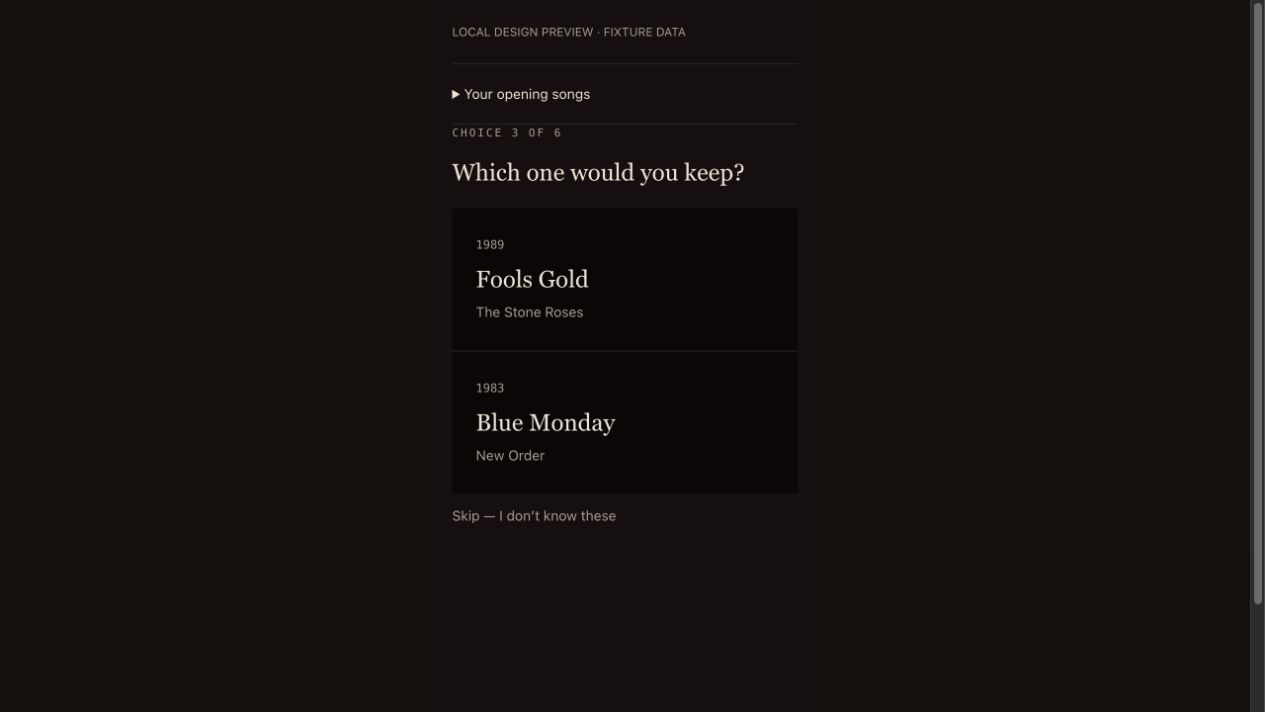
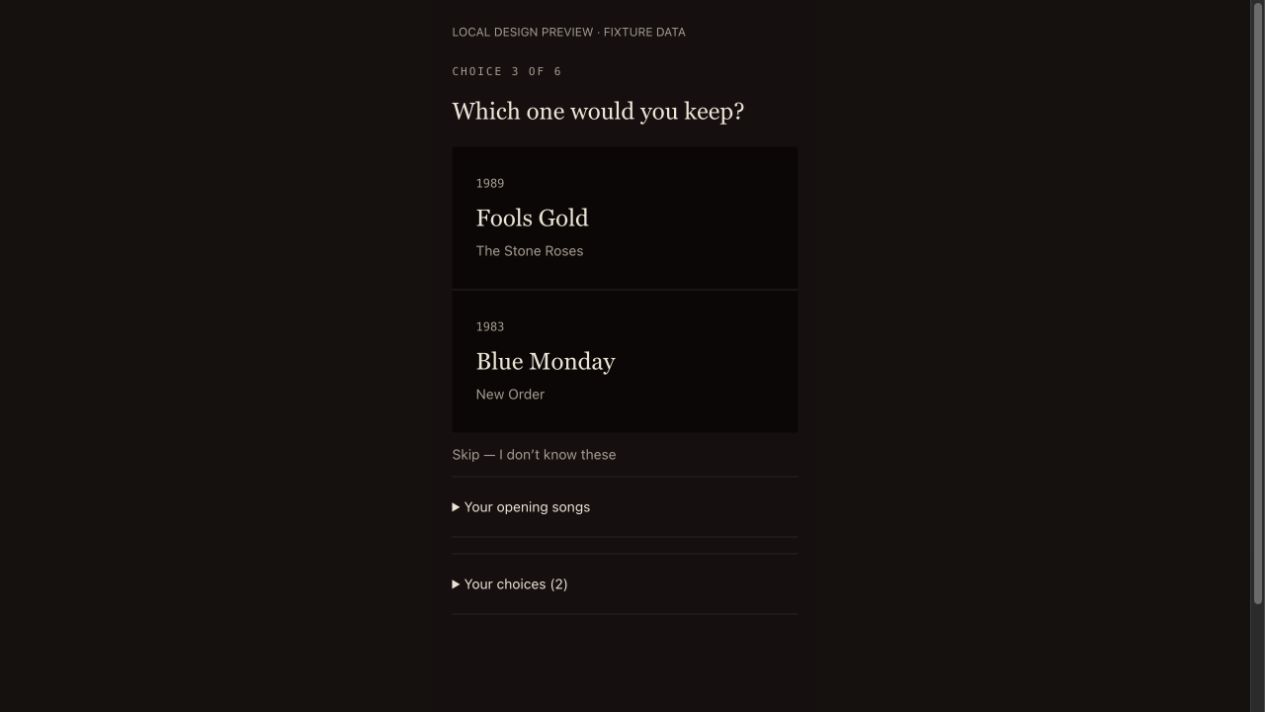
fix: keep feedback prompts out of the song-choice loop

diff --git a/src/routes/onboarding.tsx b/src/routes/onboarding.tsx
@@ -71,10 +71,8 @@ function Onboarding() {
     resultError,
     resultVersion,
     shareBusy,
-    round,
     maxRounds,
     nextPrompt,
-    reactedRounds,
     entries,
     synthesis,
     kept,
@@ -86,7 +84,6 @@ function Onboarding() {
     booting,
     submitSlot,
     pick,
-    reactToRead,
     shareRead,
     skip,
     loadFinalRead,
@@ -181,20 +178,22 @@ function Onboarding() {
           <p className="eyebrow">the interview</p>
         </header>
 
-        <OpeningContext
-          songs={songs}
-          reactions={reactions}
-          observation={refined && r5Step >= 2 ? refined.observation || refined.hypothesis : null}
-          compact={entries.length > 0 || phase === "done"}
-          starting={
-            !!refined &&
-            r5Step >= 2 &&
-            phase === "playing" &&
-            !pairing &&
-            !flowError &&
-            entries.length === 0
-          }
-        />
+        {entries.length === 0 && phase !== "done" && (
+          <OpeningContext
+            songs={songs}
+            reactions={reactions}
+            observation={refined && r5Step >= 2 ? refined.observation || refined.hypothesis : null}
+            compact={false}
+            starting={
+              !!refined &&
+              r5Step >= 2 &&
+              phase === "playing" &&
+              !pairing &&
+              !flowError &&
+              entries.length === 0
+            }
+          />
+        )}
 
         {/* Active slot input — slot2 or slot3 */}
         {(phase === "slot2" || phase === "slot3") && (
@@ -237,14 +236,6 @@ function Onboarding() {
             Continue now
           </button>
         )}
-
-        <InterviewHistory
-          entries={entries}
-          allowReactions={!!pairing}
-          reactedRounds={reactedRounds}
-          busy={busy || pendingSongId !== null || pendingSkip !== null}
-          onReact={(kind) => void reactToRead(kind)}
-        />
 
         {/* Current pairing */}
         {pairing && phase === "playing" && (
@@ -351,6 +342,20 @@ function Onboarding() {
                 </p>
               </ReadingResult>
             )}
+          </section>
+        )}
+        {(entries.length > 0 || phase === "done") && (
+          <section className="space-y-4" aria-label="Optional interview history">
+            {(songs.length > 0 || refined) && (
+              <OpeningContext
+                songs={songs}
+                reactions={reactions}
+                observation={refined?.observation || refined?.hypothesis}
+                compact={true}
+                starting={false}
+              />
+            )}
+            <InterviewHistory entries={entries} />
           </section>
         )}
       </main>

diff --git a/src/components/musicdna/interview-history.tsx b/src/components/musicdna/interview-history.tsx
@@ -44,60 +44,18 @@ export function InterviewExchange({
   );
 }
 
-export function InterviewHistory({
-  entries,
-  allowReactions,
-  reactedRounds,
-  busy,
-  onReact,
-}: {
-  entries: Entry[];
-  allowReactions: boolean;
-  reactedRounds: number[];
-  busy: boolean;
-  onReact: (kind: "thats_me" | "not_quite" | "harder") => void;
-}) {
-  const latest = entries.at(-1);
-  if (!latest) return null;
+export function InterviewHistory({ entries }: { entries: Entry[] }) {
+  if (!entries.length) return null;
   return (
-    <section className="space-y-7" aria-label="Your choices and the developing read">
-      {entries.length > 1 && (
-        <details className="border-y hairline py-2">
-          <summary className="min-h-11 cursor-pointer py-3 text-sm">
-            Earlier choices ({entries.length - 1})
-          </summary>
-          <div className="space-y-8 py-5">
-            {entries.slice(0, -1).map((entry) => (
-              <InterviewExchange key={entry.pairing.id} entry={entry} />
-            ))}
-          </div>
-        </details>
-      )}
-      <div aria-live="polite">
-        <InterviewExchange entry={latest}>
-          {allowReactions && latest.round >= 2 && !reactedRounds.includes(latest.round) && (
-            <div className="flex flex-wrap gap-2 pt-1">
-              {(
-                [
-                  ["thats_me", "That's me"],
-                  ["not_quite", "Not quite"],
-                  ["harder", "Give me a harder one"],
-                ] as const
-              ).map(([kind, label]) => (
-                <button
-                  key={kind}
-                  type="button"
-                  disabled={busy}
-                  onClick={() => onReact(kind)}
-                  className="min-h-11 rounded-sm border hairline-strong px-3 py-2 text-sm disabled:opacity-50"
-                >
-                  {label}
-                </button>
-              ))}
-            </div>
-          )}
-        </InterviewExchange>
+    <details className="border-y hairline py-2">
+      <summary className="min-h-11 cursor-pointer py-3 text-sm">
+        Your choices ({entries.length})
+      </summary>
+      <div className="space-y-8 py-5">
+        {entries.map((entry) => (
+          <InterviewExchange key={entry.pairing.id} entry={entry} />
+        ))}
       </div>
-    </section>
+    </details>
   );
 }

diff --git a/src/components/musicdna/reading-reference.test.tsx b/src/components/musicdna/reading-reference.test.tsx
@@ -5,6 +5,8 @@ import { SongChoices } from "./song-choices";
 import { ReadMoment } from "./read-moment";
 import { ReadingConversation } from "./reading-conversation";
 import { OpeningContext } from "./opening-context";
+import { InterviewHistory } from "./interview-history";
+import type { Entry } from "@/lib/interview-model";
 import { readingExamples, parseReadingContent } from "@/lib/reading-content";
 import suite from "../../../fixtures/musicdna/product-parity-v1.json";
 const cached = suite.responses.stable.result;
@@ -15,6 +17,23 @@ const content = {
   result_version: 1,
 };
 describe("web reading reference presentation", () => {
+  it("keeps the saved read available without prompting for feedback between choices", () => {
+    const entry = {
+      round: 2,
+      pairing: { id: "previous-pair" },
+      reaction: "Chosen song over other song.",
+      thesis: "Stored developing read",
+      tier: "observation",
+      direction: "forming",
+      question: "",
+    } as Entry;
+    const html = renderToStaticMarkup(<InterviewHistory entries={[entry]} />);
+    expect(html).toContain("<details");
+    expect(html).not.toContain("<details open");
+    expect(html).toContain("Chosen song over other song.");
+    expect(html).toContain("Stored developing read");
+    expect(html).not.toMatch(/<button|That's me|Not quite|Give me a harder one|aria-live/);
+  });
   it("limits the lead evidence to two distinct examples without discarding full details", () => {
     const c = {
       ...content,

diff --git a/docs/musicdna/ab56-product-ux.md b/docs/musicdna/ab56-product-ux.md
@@ -9,7 +9,7 @@ This Music DNA PR implements the shared response/selection fixes and web present
 - New uncertain readings name an actual ledger-backed choice, explain the uncertainty and invite context. They do not manufacture a supported claim or lower the evidence thresholds. Web presents this text beneath a short heading instead of turning the entire paragraph into a large headline.
 - Shared reading caveats describe repeated songs, artists, styles and eras in ordinary language. Operator lane keys, frozen-evidence terminology and “confound” are not emitted in new user-facing caveats. Both REST/mobile and web receive the same new content; the wire shapes stay unchanged.
 - The selector prefers two songs not yet answered in the session, **within** its eligible lane/recognition/artist/fork pool. It falls back to that eligible pool when necessary, so freshness does not falsely exhaust the catalog or loosen safeguards. Real, fallback and shadow picks use the same seen-song input. Marked bootstrap selection uses the same preference within its existing constraints.
-- Web collapses the opening transcript after the first answer, retaining an expandable reference. Waiting text appears only while the first matchup is loading. The progress label counts answered choices rather than skips. Song controls are action buttons with explicit accessible names and visible selected state. The uncertain-result action invites the listener to add context.
+- During the web choice loop, the song cards and skip action come first. The per-round “That's me”, “Not quite” and “Give me a harder one” buttons are removed from this flow; interpretation and feedback can wait until the result. Opening context and saved developing reads remain in collapsed references **below** the active matchup, and below the result when finished. Waiting text appears only while the first matchup is loading. The progress label counts answered choices rather than skips. Song controls are action buttons with explicit accessible names and visible selected state. The uncertain-result action invites the listener to add context. Existing reaction APIs and mobile behavior are unchanged by this web-only presentation change.
 
 ## Catalog follow-up
 
